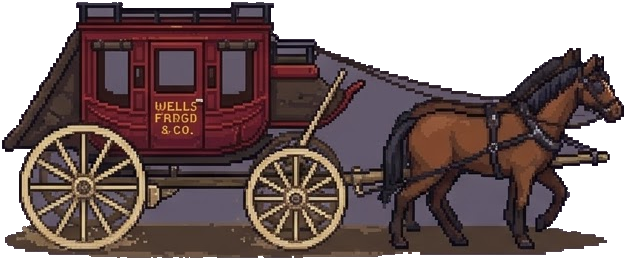
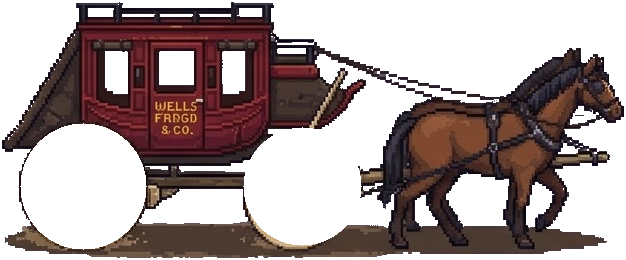
Caméra façon Stardew, diligence nettoyée aux roues qui tournent, routes dégagées (v0.1.109)
Claude-Session: https://claude.ai/code/session_01AW7DcpGK4sRo7mybjR7Eei

diff --git a/src/world/scenes.js b/src/world/scenes.js
@@ -629,7 +629,7 @@ export const SCENES = {
     { x: 20, y: 7, to: 'pigsty', spawn: { x: 5.5, y: 5.4 } },
     { x: 28, y: 7, to: 'barn', spawn: { x: 5.5, y: 6.4 } },
     { x: 12, y: 4, to: 'grange', spawn: { x: 5.5, y: 5.2 } },
-    { x: 16, y: 0, to: 'edge:N' },   // 19/11 : au nord (carrière pour la ferme principale)
+    { x: 16, y: 0, to: 'edge:N' }, { x: 15, y: 0, to: 'edge:N' }, { x: 17, y: 0, to: 'edge:N' },   // 19/11 : au nord (carrière pour la ferme principale)
     { x: 16, y: 35, to: 'edge:S' }, { x: 15, y: 35, to: 'edge:S' }, { x: 17, y: 35, to: 'edge:S' },   // Farmwest : au sud des fermes, le rond-point
     { x: 0, y: 17, to: 'edge:W' }, { x: 0, y: 18, to: 'edge:W' }, { x: 0, y: 19, to: 'edge:W' },   // 19/11 : sorties selon l'emplacement de la ferme (FARM_LINKS)
     { x: 47, y: 18, to: 'edge:E' }, { x: 47, y: 17, to: 'edge:E' }, { x: 47, y: 19, to: 'edge:E' }   // Farmwest : à l'est des fermes, la forêt
@@ -812,15 +812,26 @@ export function widenRoads(sc) {
     if (!WIDE_GROUND.includes(L0[y][x])) continue;
     if (road(x - 1, y) || road(x + 1, y) || road(x, y - 1) || road(x, y + 1)) L[y][x] = '.';
   }
-  const isDoor = (x, y) => D.find(d => d.x === x && d.y === y);
+  // 21/11 : plus d'arbre ni de barrière au milieu d'une route (pris entre deux cases de route)
+  for (let y = 1; y < H - 1; y++) for (let x = 1; x < W - 1; x++) if ('Tfh'.includes(L[y][x])) {
+    const rd = (a, b) => L[b][a] === '.' || L[b][a] === 'D';
+    if ((rd(x - 1, y) && rd(x + 1, y)) || (rd(x, y - 1) && rd(x, y + 1))) L[y][x] = '.';
+  }
+  // chaque sortie prend toute la largeur de sa route : une case de bord devient la même porte si la case intérieure est
+  // de la route et qu'elle touche déjà une porte (on répète jusqu'à ce que plus rien ne change)
+  const isDoor = (x, y) => D.find(d => d.x === x && d.y === y) || added.find(d => d.x === x && d.y === y);
   const added = [];
-  for (const d of D) {
-    const onH = d.y === 0 || d.y === H - 1, onV = d.x === 0 || d.x === W - 1; if (!onH && !onV) continue;
-    for (const s of [-1, 1]) {
-      const x = onH ? d.x + s : d.x, y = onH ? d.y : d.y + s, ix = onV ? (d.x === 0 ? 1 : W - 2) : x, iy = onH ? (d.y === 0 ? 1 : H - 2) : y;
-      if (x <= 0 || y <= 0 || x >= W - 1 || y >= H - 1 && onV || isDoor(x, y) || added.some(a => a.x === x && a.y === y)) continue;
-      if (L[iy][ix] !== '.' || L0[iy][ix] === '.') continue;   // seulement là où la route vient d'être élargie
-      L[y][x] = L0[d.y][d.x]; added.push({ ...d, x, y });
+  for (let changed = true; changed;) {
+    changed = false;
+    for (let x = 1; x < W - 1; x++) for (const [y, iy] of [[0, 1], [H - 1, H - 2]]) {
+      if (isDoor(x, y) || L[iy][x] !== '.') continue;
+      const n = isDoor(x - 1, y) || isDoor(x + 1, y); if (!n) continue;
+      L[y][x] = L[n.y][n.x]; added.push({ ...n, x, y }); changed = true;
+    }
+    for (let y = 1; y < H - 1; y++) for (const [x, ix] of [[0, 1], [W - 1, W - 2]]) {
+      if (isDoor(x, y) || L[y][ix] !== '.') continue;
+      const n = isDoor(x, y - 1) || isDoor(x, y + 1); if (!n) continue;
+      L[y][x] = L[n.y][n.x]; added.push({ ...n, x, y }); changed = true;
     }
   }
   D.push(...added);

diff --git a/src/render/renderer.js b/src/render/renderer.js
@@ -1,4 +1,4 @@
-import { drawDecor, decor, VEIN_DECOR } from './decors.js';
+import { drawDecor, decor, VEIN_DECOR, drawCoachDecor } from './decors.js';
 import { folkSprite, CAST } from './folk.js';
 import { coachBody, coachWheel, horse, locoSprite, wagonSprite, fountainSprite, houseSprite } from './props.js';
 import { MAILBOX, METEOR_HITS } from '../systems/golgolas.js';
@@ -197,7 +197,7 @@ let TRAIN_EL; const trainImage = () => { if (TRAIN_EL === undefined && typeof Im
 function drawCoach(c, wx, wy, now) {   // 18/11 (soir) : diligence « pixel moderne » (src/render/props.js) : caisse, cocher, chevaux au trot, roues qui tournent
   const X = Math.round(wx * 16), Y = Math.round(wy * 16), fr = (now / 110 | 0) % 4, st = (now / 70 | 0) % 8;
   c.fillStyle = 'rgba(30,15,5,.3)'; c.beginPath(); c.ellipse(X + 12, Y + 9, 52, 5, 0, 0, 7); c.fill();
-  if (drawDecor(c, 'diligence_droite', X + 18, Y + 11 + ((now / 160 | 0) % 2), 126)) return;   // lot 32 : diligence de la planche fournie (petit cahot)
+  if (drawCoachDecor(c, 'diligence_droite', X + 18, Y + 11 + ((now / 160 | 0) % 2), 126, now)) return;   // lot 32 : diligence de la planche fournie (petit cahot, roues qui tournent)
   const h1 = horse('#5a3a22', fr), h2 = horse('#8a5a32', (fr + 2) % 4), body = coachBody(), wb = coachWheel(10, st), wf = coachWheel(8, st);
   if (h1) c.drawImage(h1, X + 40, Y - 21);
   if (body) c.drawImage(body, X - 40, Y - 64);
@@ -348,8 +348,11 @@ let swing = null;
     }
     if (outside) cache = farmGround(); // reconstruit si un bâtiment vient d'être construit
     const vw = cv.width / scale, vh = cv.height / scale, MW = SC.W * T, MH = SC.H * T;
-    cam.x = MW <= vw && !sky ? (MW - vw) / 2 : S.x * T - vw / 2;   // 20/11 : la caméra suit le héros jusqu'aux bords (l'interface ne cache plus rien)
-    cam.y = MH <= vh && !sky ? (MH - vh) / 2 : S.y * T - vh / 2; // la caméra ne bouge plus quand un dialogue s'ouvre
+    // 21/11 : caméra façon Stardew Valley — centrée sur le héros, mais elle s'arrête aux bords de la zone (on ne voit jamais
+    // le vide au-delà) ; une zone plus petite que l'écran est centrée. La caméra ne bouge pas quand un dialogue s'ouvre.
+    const clampC = (p, M, v) => M <= v ? (M - v) / 2 : Math.max(0, Math.min(M - v, p - v / 2));
+    cam.x = clampC(S.x * T, MW, vw);
+    cam.y = clampC(S.y * T, MH, vh);
     if (SC.rooms) { // salles façon Game Boy : la caméra reste centrée sur la salle du joueur
       const rw = SC.rooms.w * T, rh = SC.rooms.h * T;
       cam.x = Math.floor(S.x * T / rw) * rw - (vw - rw) / 2; cam.y = Math.floor(S.y * T / rh) * rh - (vh - rh) / 2;

diff --git a/src/render/decors.js b/src/render/decors.js
@@ -4,7 +4,9 @@
 // dessin par code sert de secours.
 export const DECORS = ['cactus_grand', 'cactus_petit', 'broussaille', 'sapin', 'cypres', 'arbre_fleurs', 'rocher_grand', 'rocher_bas', 'cailloux', 'caillou', 'roche_plate', 'roche_pilier',
   'filon_cuivre', 'filon_etain', 'filon_argent', 'filon_fer', 'filon_or', 'filon_or2', 'filon_cobalt', 'filon_zinc', 'filon_nickel', 'saloon', 'fontaine',
-  'diligence_droite', 'diligence_gauche', 'diligence_face', 'diligence_dos'];
+  'diligence_droite', 'diligence_gauche', 'diligence_face', 'diligence_dos', 'roue'];
+// 21/11 : roues de la diligence (dans l'image d'origine, 626 px de large) : centre x, centre y, rayon — elles tournent à part.
+export const COACH_WHEELS = { diligence_droite: [[83, 186, 62], [302, 186, 58]], diligence_gauche: [[543, 186, 62], [324, 186, 58]] };
 export const VEIN_DECOR = { copper: 'filon_cuivre', tin: 'filon_etain', silver: 'filon_argent', iron: 'filon_fer', gold: 'filon_or', cobalt: 'filon_cobalt', zinc: 'filon_zinc', nickel: 'filon_nickel' };
 const IM = {}, CACHE = new Map();
 let ready = 0;
@@ -33,3 +35,19 @@ export function drawDecor(c, n, cx, by, w, flip = false) {
   return true;
 }
 export const decorH = (n, w) => { const i = decor(n); return i ? w * i.naturalHeight / i.naturalWidth : 0; };
+
+// Décor tourné d'un angle (radians) autour de son centre (cx, cy), large de w pixels du monde.
+export function drawDecorRot(c, n, cx, cy, w, ang) {
+  const src = decor(n); if (!src) return false;
+  const s = Math.abs(c.getTransform().a) || 1, im = scaled(n, Math.max(1, Math.round(w * s)), Math.max(1, Math.round(w * s))); if (!im) return false;
+  c.save(); c.translate(cx, cy); c.rotate(ang); c.drawImage(im, -w / 2, -w / 2, w, w); c.restore(); return true;
+}
+// La diligence : caisse et chevaux, puis les roues qui tournent (angle selon le temps).
+export function drawCoachDecor(c, n, cx, by, w, now) {
+  const src = decor(n); if (!src || !decor('roue')) return false;
+  const k = w / src.naturalWidth, x0 = cx - w / 2, y0 = by - src.naturalHeight * k;
+  drawDecor(c, n, cx, by, w);
+  const ang = (now / 1000) * 5 * (n === 'diligence_gauche' ? -1 : 1);
+  for (const [wx, wy, r] of COACH_WHEELS[n] || []) drawDecorRot(c, 'roue', x0 + wx * k, y0 + wy * k, 2 * r * k, ang * 62 / r);
+  return true;
+}

diff --git a/tests/acces.test.js b/tests/acces.test.js
@@ -56,3 +56,19 @@ test('20/11 : aucun chemin ne touche un bord sans sortie', () => {
   }
   assert.deepEqual(bad, []);
 });
+
+test('21/11 : aucune route ne bute sur un arbre ou une barrière (ni au milieu, ni à côté d’une sortie)', async () => {
+  const m = await import('../src/world/scenes.js'), bad = [];
+  for (const [sc, S] of Object.entries(m.SCENES)) {
+    if (!S.outdoor || !m.LAYOUTS[sc] || m.WIDE_SKIP.has(sc)) continue;
+    const L = m.LAYOUTS[sc], H = L.length, W = L[0].length, at = (x, y) => (L[y] || '')[x], door = (x, y) => S.doors.some(d => d.x === x && d.y === y), N = [[1, 0], [-1, 0], [0, 1], [0, -1]];
+    for (let y = 0; y < H; y++) for (let x = 0; x < W; x++) {
+      if (!'Tfh'.includes(at(x, y))) continue;
+      const rd = (a, b) => at(a, b) === '.' || at(a, b) === 'D';
+      if ((rd(x - 1, y) && rd(x + 1, y)) || (rd(x, y - 1) && rd(x, y + 1))) bad.push(`${sc} ${x},${y}`);
+      if ((x === 0 || y === 0 || x === W - 1 || y === H - 1) && N.some(([a, b]) => door(x + a, y + b)) && N.some(([a, b]) => at(x + a, y + b) === '.')) bad.push(`${sc} ${x},${y} (sortie)`);
+    }
+  }
+  assert.deepEqual(bad, []);
+  const { isFarmFence } = await import('../src/world/map.js'); assert.ok(!isFarmFence(15, 0) && !isFarmFence(17, 0), 'passage nord de la ferme sur 3 cases');
+});

diff --git a/src/world/map.js b/src/world/map.js
@@ -47,7 +47,7 @@ const closedEdge = (x, y) => (!linkOf('S') && y === 35 && x >= 15 && x <= 17) ||
 export const isHedge0 = (x, y) => (y === 35 && (x < 15 || x > 17)) || (x === 47 && y < 35 && (y < 17 || y > 19));
 // Bord nord de la ferme : une barrière en bois ; bord ouest (au-dessus de la gare) : une falaise rocheuse.
 export const isHedge = (x, y) => (isHedge0(x, y) && !isFarmGap(x, y)) || closedEdge(x, y);
-export const isFarmFence = (x, y) => y === 0 && x > 0 && x < 47 && (x !== 16 || !linkOf('N'));   // 19/11 : passage vers la carrière
+export const isFarmFence = (x, y) => y === 0 && x > 0 && x < 47 && (x < 15 || x > 17 || !linkOf('N'));   // 21/11 : passage de 3 cases (route élargie, plus de poteau dans le chemin)   // 19/11 : passage vers la carrière
 export const isCliff = (x, y) => x === 0 && !isFarmGap(x, y);   // lot 8 : plus de gare dans la ferme, la falaise court sur tout le bord ouest
 // Lot 8 : plus de gare dans la ferme (la gare est une zone à part, à l'ouest du centre-ville).
 export const isStation = () => false;

diff --git a/src/version.js b/src/version.js
@@ -1,4 +1,4 @@
 // Version du jeu (semver horodaté). Fichier écrit par `node tools/version.mjs` : ne pas modifier à la main.
 // Patch = automatique à chaque publication ; mineure et majeure = seulement quand l'utilisateur le demande.
-export const VERSION = { major: 0, minor: 1, patch: 108, date: '2026-11-21T00:46' };
+export const VERSION = { major: 0, minor: 1, patch: 109, date: '2026-11-21T01:02' };
 export const versionLabel = (v = VERSION) => `v${v.major}.${v.minor}.${v.patch} · ${v.date.slice(8, 10)}/${v.date.slice(5, 7)}/${v.date.slice(0, 4)} ${v.date.slice(11, 16)}`;

diff --git a/tools/decors-from-planches.py b/tools/decors-from-planches.py
@@ -70,3 +70,45 @@ def run_all():
         for i, n in names.items(): out[n] = save(im, fg, comps[i], f'assets/decors/{n}.png')
     print(json.dumps(out))
 if __name__ == '__main__' and sys.argv[1:] == ['--all']: run_all()
+
+# 21/11 : franges violettes — près du bord transparent, les pixels trop proches de la couleur du fond deviennent transparents.
+def defringe(path, bg=(102, 93, 110), r=3, tol=58, big=False):
+    im = np.array(Image.open(path).convert('RGBA')).astype(int); a = im[..., 3] > 0
+    near = np.zeros_like(a)
+    for dy in range(-r, r + 1):
+        for dx in range(-r, r + 1):
+            near |= ~np.roll(np.roll(a, dy, 0), dx, 1)
+    d = np.sqrt(((im[..., :3] - np.array(bg)) ** 2).sum(2)); purple = (im[..., 2] >= im[..., 1]) & (d < tol)
+    im[a & near & purple, 3] = 0
+    if big:   # la diligence : le fond violet enfermé entre la caisse, les harnais et les chevaux
+        P = (im[..., 3] > 0) & purple; seen = np.zeros_like(P); H, W = P.shape
+        for y in range(H):
+            for x in range(W):
+                if not P[y, x] or seen[y, x]: continue
+                q = deque([(y, x)]); seen[y, x] = 1; pts = []
+                while q:
+                    cy, cx = q.popleft(); pts.append((cy, cx))
+                    for dy, dx in ((1, 0), (-1, 0), (0, 1), (0, -1)):
+                        ny, nx = cy + dy, cx + dx
+                        if 0 <= ny < H and 0 <= nx < W and P[ny, nx] and not seen[ny, nx]: seen[ny, nx] = 1; q.append((ny, nx))
+                if len(pts) > 40:
+                    for py, px in pts: im[py, px, 3] = 0
+    Image.fromarray(im.astype('uint8')).save(path)
+# Diligence : la roue (pour la faire tourner) ; les roues fixes sont retirées de la caisse.
+WHEELS = { 'diligence_droite': [(83, 186, 62), (302, 186, 58)], 'diligence_gauche': [(543, 186, 62), (324, 186, 58)] }   # (centre x, centre y, rayon)
+def wheels():
+    src = np.array(Image.open('assets/decors/diligence_droite.png').convert('RGBA'))
+    cx, cy, R = WHEELS['diligence_droite'][0]
+    w = np.zeros((2 * R, 2 * R, 4), 'uint8'); y0, x0 = cy - R, max(0, cx - R); part = src[y0:cy + R, x0:cx + R]; w[:part.shape[0], 2 * R - part.shape[1]:] = part
+    yy, xx = np.mgrid[-R:R, -R:R]; w[(xx ** 2 + yy ** 2) > R * R, 3] = 0
+    w[:, :R] = np.where(w[:, :R, 3:4] == 0, np.flip(np.flip(w, 0), 1)[:, :R], w[:, :R])   # la roue touche le bord gauche : on complète par symétrie
+    Image.fromarray(w).save('assets/decors/roue.png')
+    for n, cs in WHEELS.items():
+        im = np.array(Image.open(f'assets/decors/{n}.png').convert('RGBA')); H, W = im.shape[:2]; yy, xx = np.mgrid[0:H, 0:W]
+        for cx, cy, R in cs: im[((xx - cx) ** 2 + (yy - cy) ** 2) <= (R + 1) ** 2, 3] = 0
+        Image.fromarray(im).save(f'assets/decors/{n}.png')
+if __name__ == '__main__' and sys.argv[1:] == ['--all']:
+    import os
+    for f in os.listdir('assets/decors'):
+        if f.endswith('.png') and f != 'roue.png': defringe('assets/decors/' + f, big=f.startswith('diligence'))
+    wheels()

diff --git a/docs/ROADMAP.md b/docs/ROADMAP.md
@@ -316,7 +316,8 @@ Décrit par l'utilisateur : cabane à moitié prix ; journal dans la cabane (200
 - [x] Cactus (grands, petits) et broussailles un peu partout (zones de l'Ouest) ; cailloux de 6 formes (petit, tas, bas, plat ; gros rocher ; rocher et pilier) ; filons cuivre, étain, argent, fer, or, cobalt, zinc, nickel (💡 la pierre blanche « zinc » sert au nickel) ; sapin, cyprès et arbre en fleurs (sapins partout, cyprès et arbres en fleurs dans le dédale profond).
 - [x] Saloon du centre-ville (« Red Eye Saloon » sur l'image ; ❓ garder ce nom ?).
 - [x] Fontaine au cheval cabré (rond-point et centre-ville).
-- [x] Diligence de l'intro (profil droit ; ⏳ gauche, face et dos prêts pour les futurs trajets).
+- [x] Diligence de l'intro (profil droit ; ⏳ gauche, face et dos prêts pour les futurs trajets). v0.1.109 : franges violettes retirées, roues découpées à part qui tournent.
+- [x] v0.1.109 : caméra façon Stardew (centrée sur le héros, arrêtée aux bords ; petite zone centrée) ; plus d'arbre ni de barrière au milieu d'une route ni à côté d'une sortie (sorties sur toute la largeur de la route, test).
 
 ## Lot 28 — Intro jouable et racontée (demande du 20/11) ✅ v0.1.92
 - [x] Test de bout en bout : nouvelle partie → intro complète → on marche et on agit (tests/jouable.test.js) ; garde-fou si l'intro attend un dialogue qui n'est pas affiché.

diff --git a/docs/CARNET.md b/docs/CARNET.md
@@ -159,3 +159,4 @@ Fait : sol de la ferme (v0.1.5) ; **7a** palette Far West et sols (centre-ville 
 - 21/11 : lot 30c (v0.1.106) — combats en équipe (hôte qui diffuse, bouton Rejoindre, 3 alliés au plus).
 - 21/11 : lot 31 (v0.1.107) — routes 2 → 4 cases partout, passages élargis. Lot 32 : 4 planches d'images fournies (cactus, cailloux, filons, arbres ; saloon ; fontaine ; diligence).
 - 21/11 : lot 32 (v0.1.108) — décors des 4 planches fournies (cactus, broussailles, cailloux, filons, arbres, saloon, fontaine, diligence). ❓ Nom « Red Eye Saloon ».
+- 21/11 : v0.1.109 — caméra façon Stardew (arrêtée aux bords), diligence nettoyée (roues qui tournent), sorties sur toute la largeur des routes.

diff --git a/docs/VERSIONS.md b/docs/VERSIONS.md
@@ -2,6 +2,7 @@
 
 Semver horodaté (heure de Paris). Patch automatique à chaque publication ; mineure et majeure sur décision de l'utilisateur.
 
+- **0.1.109** — 2026-11-21 01:02 — Caméra façon Stardew, diligence nettoyée aux roues qui tournent, routes dégagées
 - **0.1.108** — 2026-11-21 00:46 — Lot 32 : décors d'après les planches fournies
 - **0.1.107** — 2026-11-21 00:42 — Lot 31 : routes plus larges partout
 - **0.1.106** — 2026-11-21 00:40 — Lot 30c : combats en équipe
